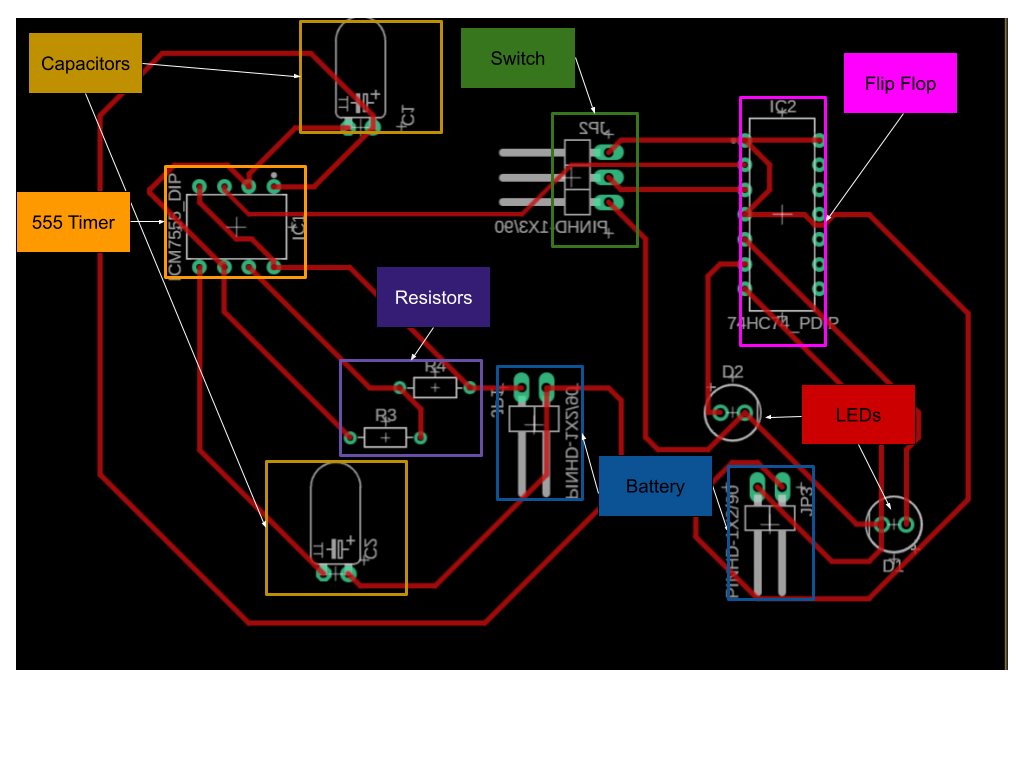
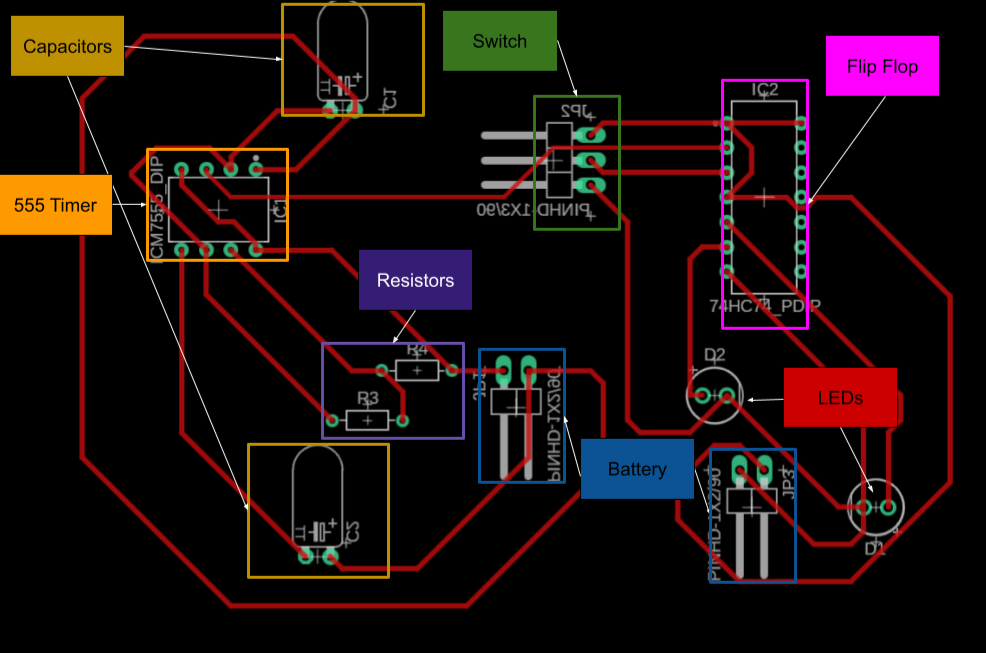
Image Formatting Issues

diff --git a/style.css b/style.css
@@ -524,9 +524,110 @@ nav ul li a:hover {
 }
 
 .pcb-stretch {
-  width: 100%; /* Fill the width of its flexible container */
-  height: 500%; /* Fill the height of its flexible container */
+  width: 50%; /* Fill the width of its flexible container */
+  height: 50%; /* Fill the height of its flexible container */
   object-fit: contain; /* Shows the entire image without cropping. Change to 'cover' if cropping is acceptable to fill completely. */
   display: block;
   /* Remove border-bottom-left-radius and border-bottom-right-radius if you want it to match project-image img's radius */
 }
+
+.project-card {
+  display: flex;
+  flex-direction: column;
+  justify-content: space-between;
+  width: 300px;
+  background-color: #2E3944;
+  border-radius: 12px;
+  overflow: hidden;
+  box-shadow: 0 4px 20px rgba(0, 0, 0, 0.3);
+}
+
+.project-image {
+  height: 220px;
+  width: 100%;
+  overflow: hidden;
+}
+
+.project-image img {
+  width: 100%;
+  height: 100%;
+  object-fit: cover;
+  object-position: center;
+  display: block;
+}
+
+
+#pcb-project-card {
+  display: flex;
+  flex-direction: column;
+  justify-content: space-between;
+  height: 100%;
+}
+
+#pcb-project-card .project-image {
+  flex-grow: 1;
+  display: flex;
+  align-items: stretch;
+}
+
+#pcb-project-card .pcb-stretch {
+  width: 100%;
+  height: 110%;
+  object-fit: cover;
+  display: block;
+  border-radius: 12px 12px 0 0;
+}
+
+
+.project-card {
+  display: flex;
+  flex-direction: column;
+  justify-content: flex-start;
+  height: 100%;
+  padding-top: 10px;  /* restores small space above image */
+  box-sizing: border-box;
+  border-radius: 10px;
+  overflow: hidden;
+  background-color: #2e3b47; /* or your card background */
+}
+
+.project-image {
+  height: 220px;
+  overflow: hidden;
+  padding: 0;
+  margin: 0;
+  border-top-left-radius: 10px;
+  border-top-right-radius: 10px;
+}
+
+.project-image img {
+  width: 100%;
+  height: 100%;
+  object-fit: cover;
+  display: block;
+}
+
+
+.project-info, .project-link {
+  padding-top: 10px;
+  padding-bottom: 10px;
+  text-align: center;
+}
+
+
+/* Specific to PCB */
+img.pcb-image {
+  margin-top: 0px !important;      /* reduce top spacing */
+  padding-top: 0px !important;     /* reduce top padding */
+  display: block;
+}
+
+img.pcb-image {
+  margin-top: 0px !important;      /* reduce top spacing */
+  padding-top: 0px !important;     /* reduce top padding */
+  display: block;
+  height: 100%;
+}
+
+
+

diff --git a/index.html b/index.html
@@ -57,6 +57,7 @@
     <ul class="skills-list">
       <li>Altium Designer</li>
       <li>Arduino (C++)</li>
+      <li>C</li>
       <li>MATLAB</li>
       <li>NI Multisim</li>
       <li>PCB Design</li>
@@ -100,9 +101,10 @@
       </div>
     </div>
 
-<div class="project-card" onclick="openModal('modal3')" id="pcb-project-card">
-  <div class="project-image">
-    <img src="images/PCB_Layout.png" alt="PCB Layout" class="pcb-stretch">
+<div class="project-card" onclick="openModal('modal3')">
+  <div class="project-image pcb-image">
+    <img src="images/PCB_Layout.png" alt="PCB Layout" class="pcb-image" />
+
   </div>
   <div class="project-info">
     <h3>PCB Design Project</h3>
@@ -112,6 +114,7 @@
     <a href="#">Learn More</a>
   </div>
 </div>
+
 
 <div class="project-card" onclick="openModal('modal4')">
   <div class="project-image">
